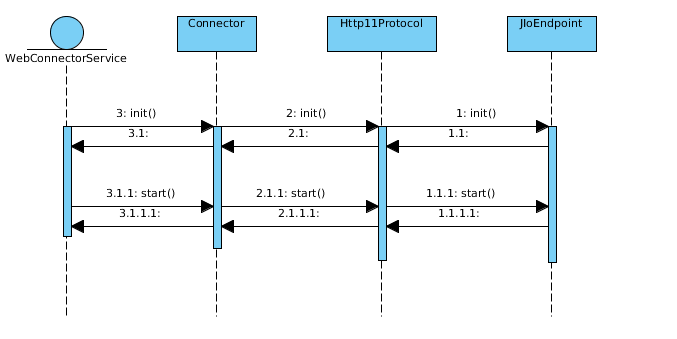
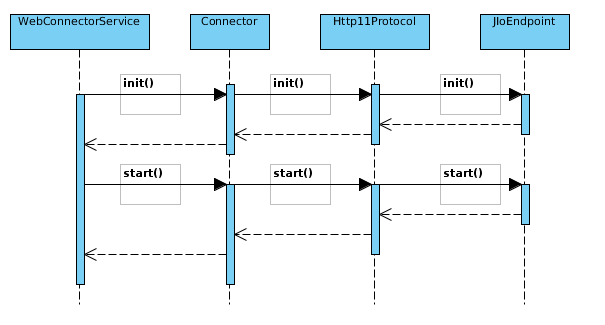
update connector init doc

diff --git a/webapp/jbossweb-tomcat-connector.md b/webapp/jbossweb-tomcat-connector.md
@@ -1,10 +1,20 @@
 ### Connector 初始化开始过程
 
-如下图
+如下 Sequence 图
 
 ![JBoss Web/Tomcat Connetor init/start process](http-connector-JIoEndpoint.png)
 
-* Connector 可以是 HTTP Connector，也可以是 AJP Connector，Connector 中有 ProtocolHandler 和 Adapter 属性，Connector 初始化主要包括：初始化 Adapter，且将初始化的 Adapter 的 设定给 ProtocolHandler，然后调运 ProtocolHandler 的初始化方法，如下面代码段所示：
+* WebConnectorService 指的是 `org.jboss.as.web.WebConnectorService`
+
+* Connector 指的是 `org.apache.catalina.connector.Connector`
+
+* Http11Protocol 指的是 `org.apache.coyote.http11.Http11Protocol`
+
+* JIoEndpoint 指的是 `org.apache.tomcat.util.net.JIoEndpoint`
+
+#### Connector init() 
+
+Connector 可以是 HTTP Connector，也可以是 AJP Connector，Connector 中有 ProtocolHandler 和 Adapter 属性，Connector 初始化主要包括：初始化 Adapter，且将初始化的 Adapter 的 设定给 ProtocolHandler，然后调运 ProtocolHandler 的初始化方法，如下面代码段所示：
 
 ~~~
         // Initializa adapter
@@ -20,7 +30,9 @@
         }
 ~~~ 
 
-* Http11Protocol 它有一个 Http11ConnectionHandler Handler，该 Handler 实现 `org.apache.tomcat.util.net.JIoEndpoint.Handler` 接口，Http11Protocol 同样有一个 JIoEndpoint 属性，该属性用来处理 incoming TCP connections，如下代码段所示：
+#### Http11Protocol init()
+
+Http11Protocol 它有一个 Http11ConnectionHandler Handler，该 Handler 实现 `org.apache.tomcat.util.net.JIoEndpoint.Handler` 接口，Http11Protocol 同样有一个 JIoEndpoint 属性，该属性用来处理 incoming TCP connections，如下代码段所示：
 
 ~~~
     protected Http11ConnectionHandler cHandler = new Http11ConnectionHandler(this);
@@ -29,13 +41,16 @@
 
 Http11Protocol 初始化主要包括： 
 
-. 给 JIoEndpoint 设定名字，默认设定的名字为 http-/127.0.0.1:8080
+* 给 JIoEndpoint 设定名字，默认设定的名字为 http-/127.0.0.1:8080
 
-. 给 JIoEndpoint 设定 socket handler，设定的 handler 为 Http11ConnectionHandler，该 handler 的作用是 Handling of accepted sockets
+* 给 JIoEndpoint 设定 socket handler，设定的 handler 为 Http11ConnectionHandler，该 handler 的作用是 Handling of accepted sockets
 
-. 调运 JIoEndpoint 的初始化方法
+* 调运 JIoEndpoint 的初始化方法
 
-* JIoEndpoint，关于此类的作用之前我们有说，对该类最直接的总结如下：
+
+#### JIoEndpoint init()
+
+JIoEndpoint，关于此类的作用之前我们有说，对该类最直接的总结如下：
 
 ~~~
 /**
@@ -59,15 +74,22 @@ public class JIoEndpoint {
 
 JIoEndpoint 初始化包括：
 
-. 初始化 Acceptor thread count，默认初始设定的 Acceptor thread count 为 1
+* 初始化 Acceptor thread count，默认初始设定的 Acceptor thread count 为 1
 
-. 初始化 ServerSocketFactory，并通过初始化的 ServerSocketFactory 创建 ServerSocket
+* 初始化 ServerSocketFactory，并通过初始化的 ServerSocketFactory 创建 ServerSocket
 
-* Connector 开始方法验证更新当前的状态，并调运 Http11Protocol 的开始方法
 
-* Http11Protocol 的开始方法中直接调运 JIoEndpoint 的开始方法。
+#### Connector start() 
 
-* JIoEndpoint 的开始方法主要包括：
+Connector 开始方法验证更新当前的状态，并调运 Http11Protocol 的开始方法
+
+#### Http11Protocol start()
+
+Http11Protocol 的开始方法中直接调运 JIoEndpoint 的开始方法。
+
+#### JIoEndpoint start() 
+
+JIoEndpoint 的开始方法主要包括：
 
 如果外部基于 Executor 的线程池为空，则初始化内部的 workers 栈，该栈保存Worker，初始化的栈大小定义如下：
 
@@ -77,11 +99,11 @@ JIoEndpoint 初始化包括：
 
 如上：
 
-. 如果通过系统参数 -Dorg.apache.tomcat.util.LOW_MEMORY=true，则初始化的栈大小为 64 
+* 如果通过系统参数 -Dorg.apache.tomcat.util.LOW_MEMORY=true，则初始化的栈大小为 64 
 
-. 如果通过系统参数 -Dorg.apache.tomcat.util.net.MAX_THREADS=XXX 指定最大值，则初始化的栈大小为系统参数指定的最大值 
+* 如果通过系统参数 -Dorg.apache.tomcat.util.net.MAX_THREADS=XXX 指定最大值，则初始化的栈大小为系统参数指定的最大值 
 
-. 如果没有通过系统参数指定 MAX_THREADS，则初始化的栈大小为Runtime.getRuntime().availableProcessors()
+* 如果没有通过系统参数指定 MAX_THREADS，则初始化的栈大小为Runtime.getRuntime().availableProcessors()
 
 启动 Poller 线程，默认线程的名字为 http-/127.0.0.1:8080-Poller
 
